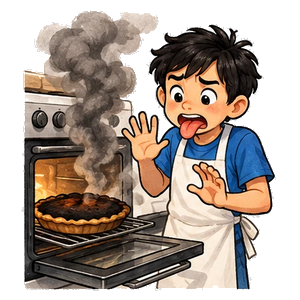
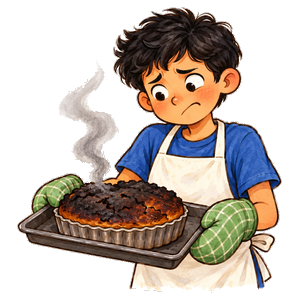
Prepare 5: листы 24–26, перерисованный burn
Claude-Session: https://claude.ai/code/session_01TVzVUEdGkYTyD8nN3ioNLY

diff --git a/tools/vocab-images/p5/cut.py b/tools/vocab-images/p5/cut.py
@@ -15,6 +15,8 @@ lib.BG_MIN, lib.BG_GREY, lib.KEEP_SOFT = 250, 8, True
 # Сцены с белым содержимым (лёд, снег): фон вырезается вместе с ним — заливаем сцену целиком
 FILL_OLD = None  # заливка дыр больше не нужна: её заменил строгий порог фона
 FILL = set()
+# вырезать зажатый белый фон (не везде: белое внутри пузырей пропадало)
+HOLES = {'aim'}
 
 # Листы, где генератор разложил картинки иначе, чем в промпте
 # Границы клеток вручную: {лист: {номер ряда: [границы]}}; граница-ступенька (y, x_выше, x_ниже)
@@ -184,7 +186,7 @@ def clean_png(p, peel=4, pale=212, grey=32, speck=0.004, pure=250):
         if c.sum() < 60 or mn[c].mean() < pure:
             continue
         ring = binary_dilation(c, iterations=3) & ~c
-        if False and (mn[ring] < 150).mean() >= 0.35:  # белое внутри пузырей уходило вместе с дырками
+        if p.endswith(tuple(f'/{fname(w)}' for w in HOLES)) and (mn[ring] < 150).mean() >= 0.35:  # белое внутри пузырей уходило вместе с дырками
             a[c] = 0
     lab, n = label(a > 40)
     if n > 1:
